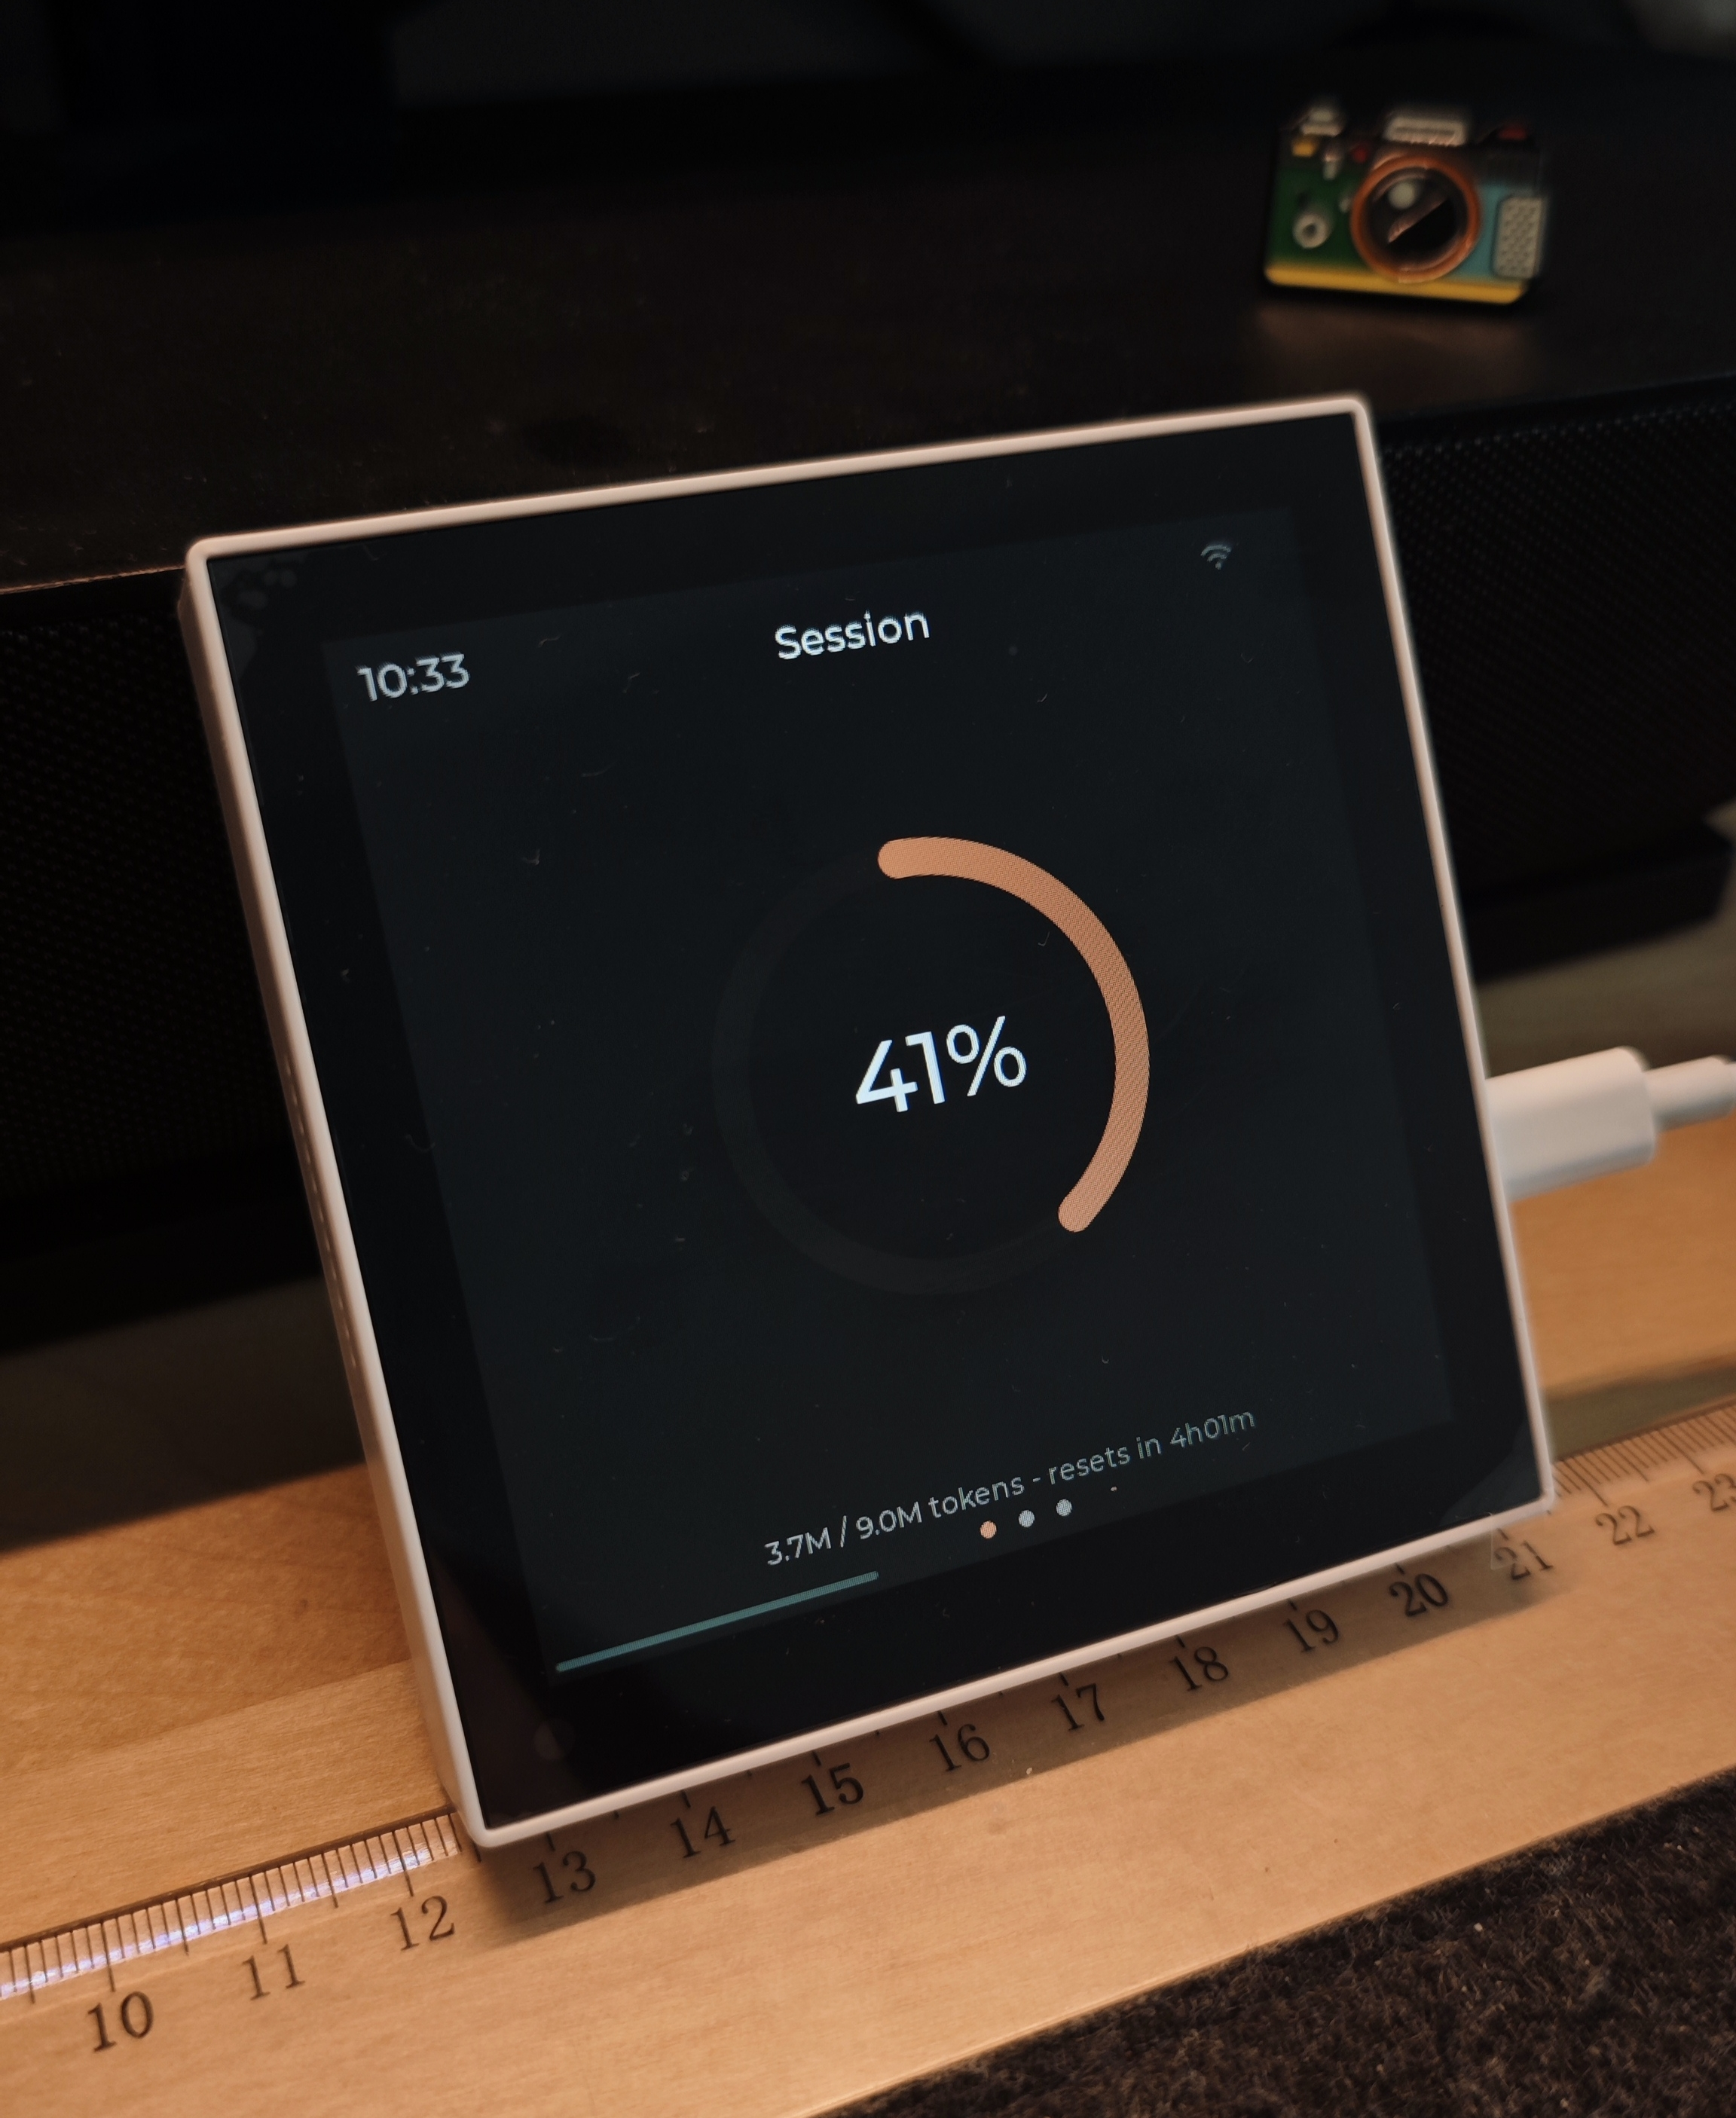
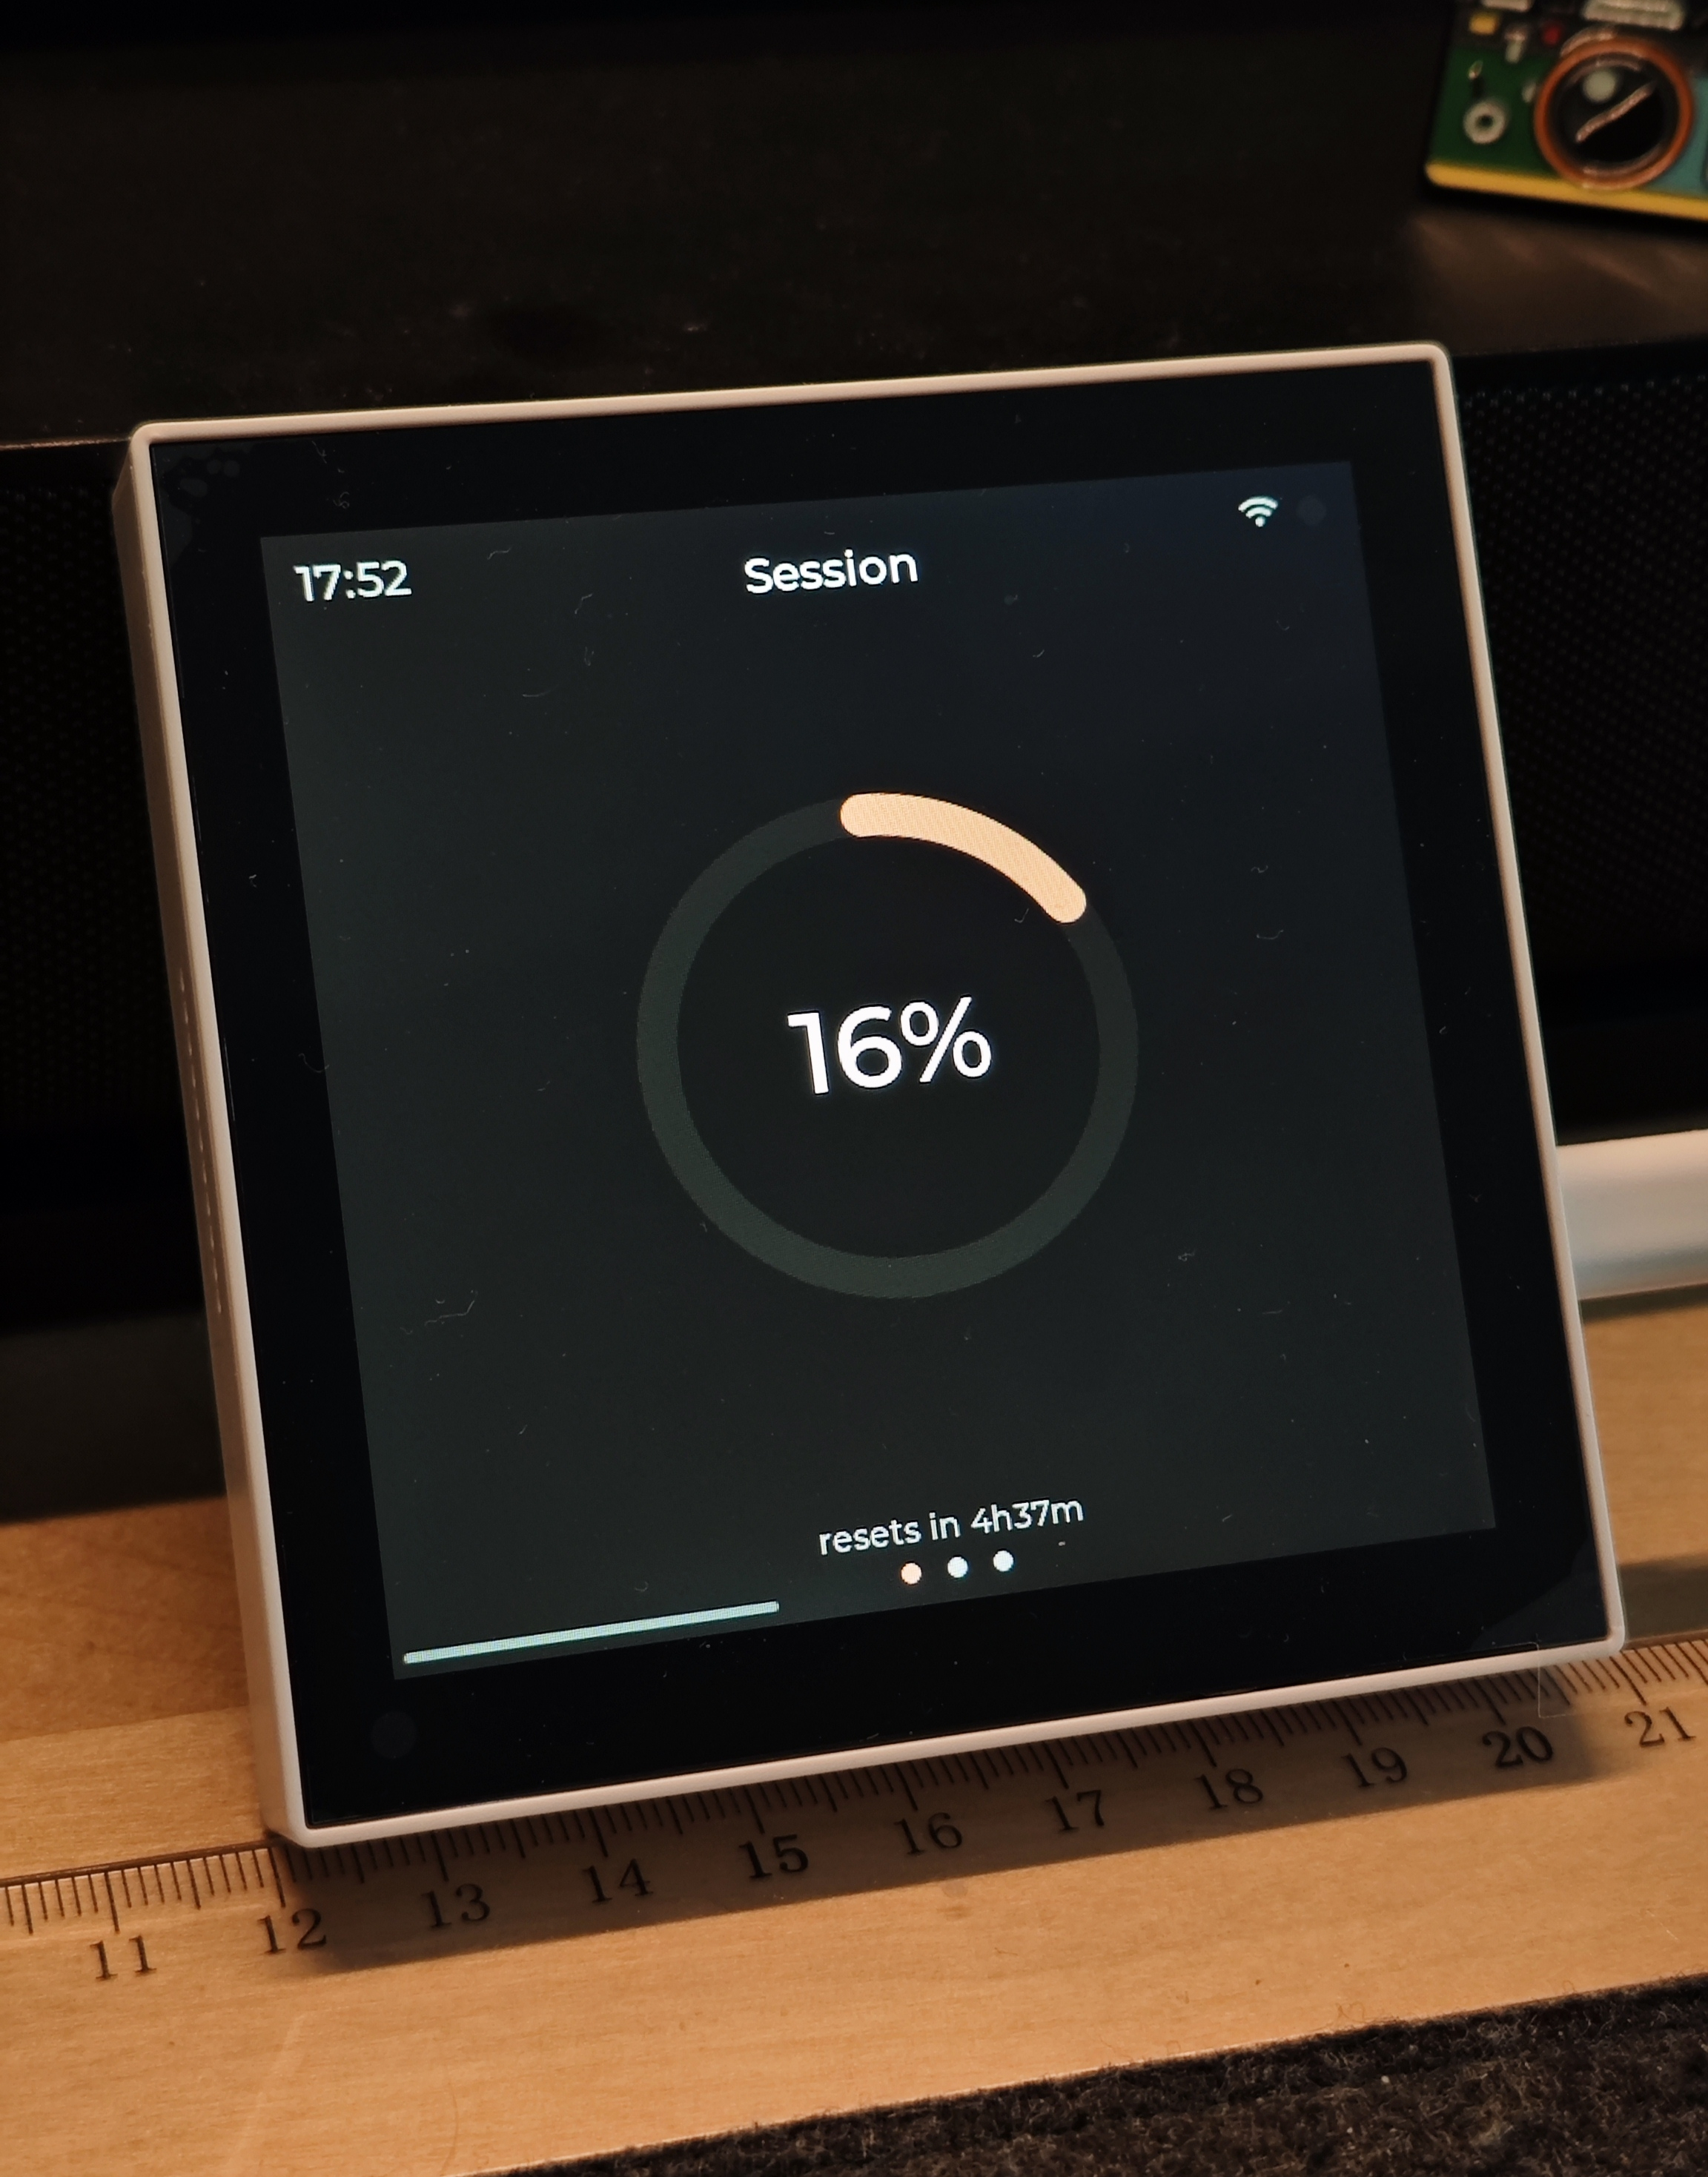
Drop the token counter display
The real usage API only returns utilization percentages, not token
counts, so the "N / M tokens" text was a synthetic estimate that could
desync from the displayed percentage. Also fixes collect_usage.py
republishing on every poll during active use: the removed tokens_used
field was ticking up on nearly every poll from local JSONL growth even
when the displayed percentages hadn't changed, defeating the
unchanged-payload skip.

diff --git a/scripts/collect_usage.py b/scripts/collect_usage.py
@@ -86,6 +86,34 @@ def read_access_token() -> str | None:
     return creds.get("claudeAiOauth", {}).get("accessToken") or None
 
 
+# The OAuth usage endpoint isn't reliable under frequent polling (seen
+# failing several calls out of six, ~4s apart) — cache the last successful
+# reading and reuse it on failure instead of silently falling back to the
+# local budget estimate, which uses an unrelated accounting scale and made
+# published percentages alternate between two unrelated series.
+API_CACHE_FILE = Path(tempfile.gettempdir()) / "claude-usage-panel.api.json"
+API_CACHE_MAX_AGE = timedelta(minutes=30)
+
+
+def _load_cached_api_usage() -> dict | None:
+    try:
+        cached = json.loads(API_CACHE_FILE.read_text(encoding="utf-8"))
+        fetched_at = datetime.fromisoformat(cached["fetched_at"])
+    except (OSError, json.JSONDecodeError, KeyError, ValueError):
+        return None
+    if datetime.now(timezone.utc) - fetched_at > API_CACHE_MAX_AGE:
+        return None
+    return cached["usage"]
+
+
+def _save_cached_api_usage(usage: dict) -> None:
+    payload = {"fetched_at": datetime.now(timezone.utc).isoformat(), "usage": usage}
+    try:
+        API_CACHE_FILE.write_text(json.dumps(payload), encoding="utf-8")
+    except OSError:
+        pass
+
+
 def fetch_oauth_usage() -> dict | None:
     token = read_access_token()
     if not token:
@@ -101,9 +129,16 @@ def fetch_oauth_usage() -> dict | None:
     )
     try:
         with urlopen(req, timeout=10) as resp:
-            return json.loads(resp.read().decode("utf-8"))
-    except (HTTPError, URLError, TimeoutError, OSError, json.JSONDecodeError):
+            usage = json.loads(resp.read().decode("utf-8"))
+    except (HTTPError, URLError, TimeoutError, OSError, json.JSONDecodeError) as exc:
+        cached = _load_cached_api_usage()
+        if cached is not None:
+            print(f"  (usage API fetch failed: {exc}; reusing last known reading)")
+            return cached
+        print(f"  (usage API fetch failed: {exc}; no cached reading, using local estimate)")
         return None
+    _save_cached_api_usage(usage)
+    return usage
 
 
 def parse_api_datetime(value: str | None) -> datetime | None:
@@ -140,10 +175,6 @@ def usage_reset(window: dict | None) -> datetime | None:
     return parse_api_datetime(window.get("resets_at"))
 
 
-def derived_limit(tokens_used: float, pct: int | None, fallback: int) -> int:
-    if pct and pct > 0:
-        return max(round(tokens_used / (pct / 100)), round(tokens_used))
-    return fallback
 def weighted_tokens(usage: dict) -> float:
     return (
         usage.get("input_tokens", 0)
@@ -270,15 +301,12 @@ def build_payload() -> dict:
         session_pct = min(100, round(session_tokens / session_budget * 100))
     if week_pct is None:
         week_pct = min(100, round(week_tokens / week_budget * 100))
-    token_limit = derived_limit(session_tokens, session_pct, session_budget)
 
     return {
         "updated_at": iso_utc(now),
         "today": {
             "session_used_pct": session_pct,
             "session_resets_at": iso_utc(session_reset),
-            "tokens_used": round(session_tokens),
-            "tokens_limit": token_limit,
         },
         "week": {
             "used_pct": week_pct,
@@ -300,7 +328,7 @@ def comparison_key(payload: dict) -> str:
     always fresh, and an idle session's resets_at drifts with the clock."""
     p = json.loads(json.dumps(payload))
     p.pop("updated_at", None)
-    if p.get("today", {}).get("tokens_used", 0) == 0:
+    if p.get("today", {}).get("session_used_pct", 0) == 0:
         p["today"]["session_resets_at"] = "idle"
     return json.dumps(p, sort_keys=True)
 

diff --git a/src/ui.cpp b/src/ui.cpp
@@ -174,16 +174,6 @@ static void build_nav_dots(lv_obj_t *parent) {
   }
 }
 
-// "512k" below a million, "5.2M" above — keeps the label short now that
-// real usage runs into millions of tokens.
-static void format_tokens(char *out, size_t n, long tokens) {
-  if (tokens >= 1000000) {
-    snprintf(out, n, "%.1fM", tokens / 1000000.0);
-  } else {
-    snprintf(out, n, "%ldk", tokens / 1000);
-  }
-}
-
 // Last received usage snapshot, so the countdown can be recomputed every
 // second instead of only when a payload arrives.
 static UsageData last_data;
@@ -200,17 +190,14 @@ static void refresh_today_sublabel() {
   // countdown) instead of freezing at the stale percentage until the next
   // payload — which then repaints the real state.
   if (now >= CLOCK_SANE_EPOCH && last_data.session_resets_at > 0 &&
-      now >= last_data.session_resets_at && last_data.tokens_used > 0) {
+      now >= last_data.session_resets_at && last_data.session_used_pct > 0) {
     last_data.session_used_pct = 0;
-    last_data.tokens_used = 0;
     last_data.session_resets_at = 0; // unknown until fresh data arrives
     lv_arc_set_value(today_arc, 0);
     lv_label_set_text(today_pct_label, "0%");
   }
 
-  char buf[64], used_str[12], limit_str[12], eta_str[12];
-  format_tokens(used_str, sizeof(used_str), last_data.tokens_used);
-  format_tokens(limit_str, sizeof(limit_str), last_data.tokens_limit);
+  char buf[64], eta_str[12];
 
   if (now < CLOCK_SANE_EPOCH || last_data.session_resets_at == 0) {
     // Clock not NTP-synced yet (a countdown against 1970 would claim
@@ -226,7 +213,7 @@ static void refresh_today_sublabel() {
     }
   }
 
-  snprintf(buf, sizeof(buf), "%s / %s tokens - resets in %s", used_str, limit_str, eta_str);
+  snprintf(buf, sizeof(buf), "resets in %s", eta_str);
   lv_label_set_text(today_sub_label, buf);
 }
 

diff --git a/include/net.h b/include/net.h
@@ -10,8 +10,6 @@ struct ModelUsage {
 struct UsageData {
   int session_used_pct;
   time_t session_resets_at;
-  long tokens_used;
-  long tokens_limit;
   int week_used_pct;
   time_t week_resets_at;
   int daily_pct[7];

diff --git a/src/net.cpp b/src/net.cpp
@@ -72,8 +72,6 @@ bool parse_usage_json(const char *json, UsageData &out) {
   parsed.session_used_pct = doc["today"]["session_used_pct"] | 0;
   parsed.session_resets_at =
       parse_iso8601_utc(doc["today"]["session_resets_at"] | "");
-  parsed.tokens_used = doc["today"]["tokens_used"] | 0L;
-  parsed.tokens_limit = doc["today"]["tokens_limit"] | 0L;
 
   parsed.week_used_pct = doc["week"]["used_pct"] | 0;
   parsed.week_resets_at = parse_iso8601_utc(doc["week"]["resets_at"] | "");